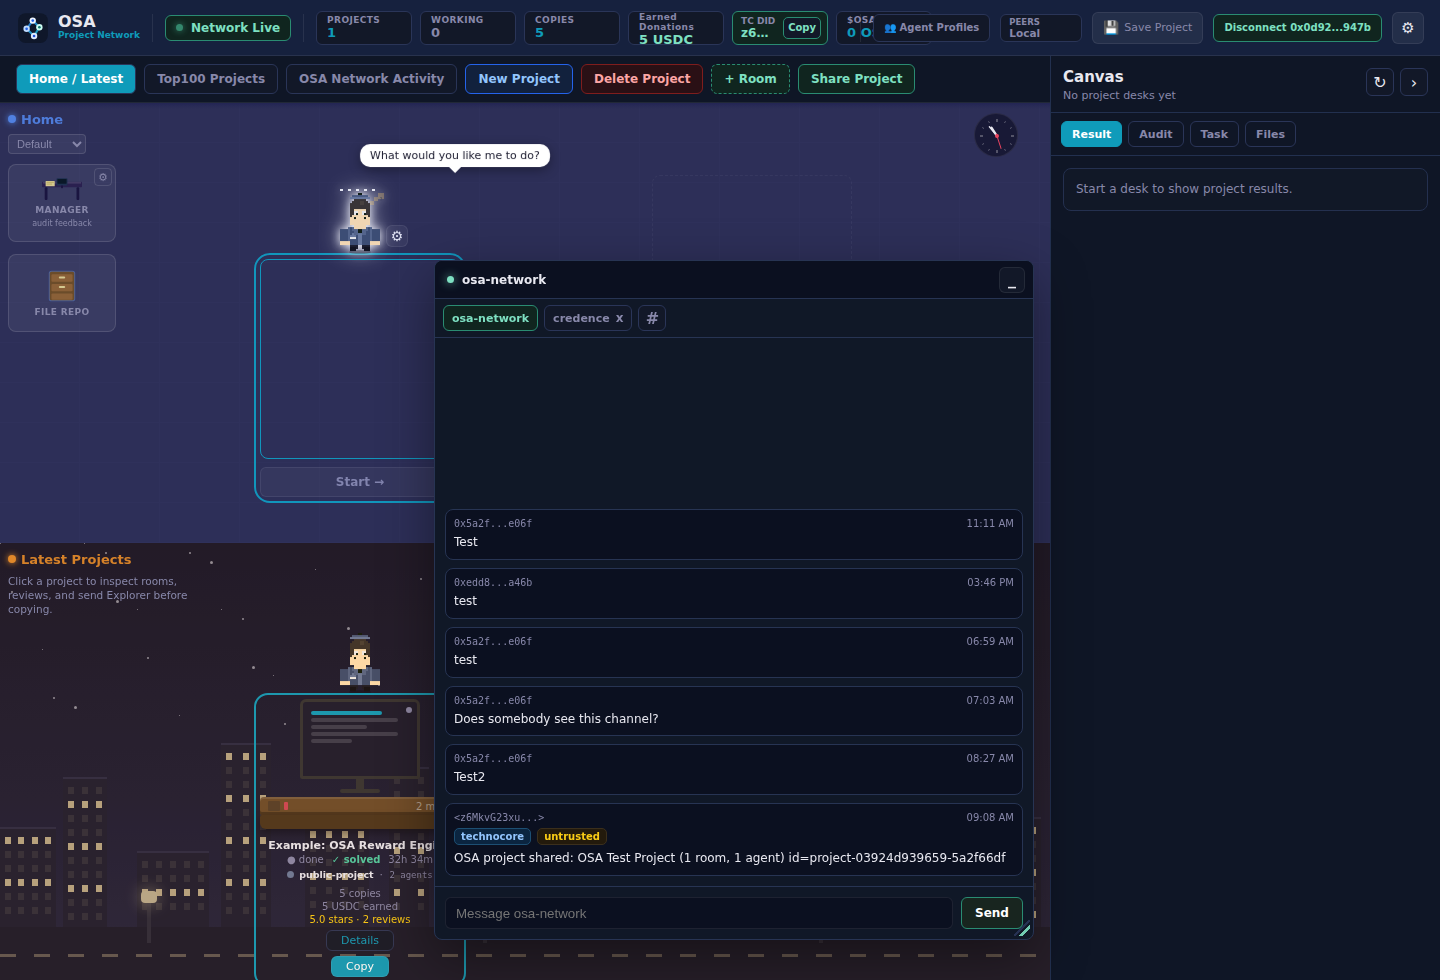
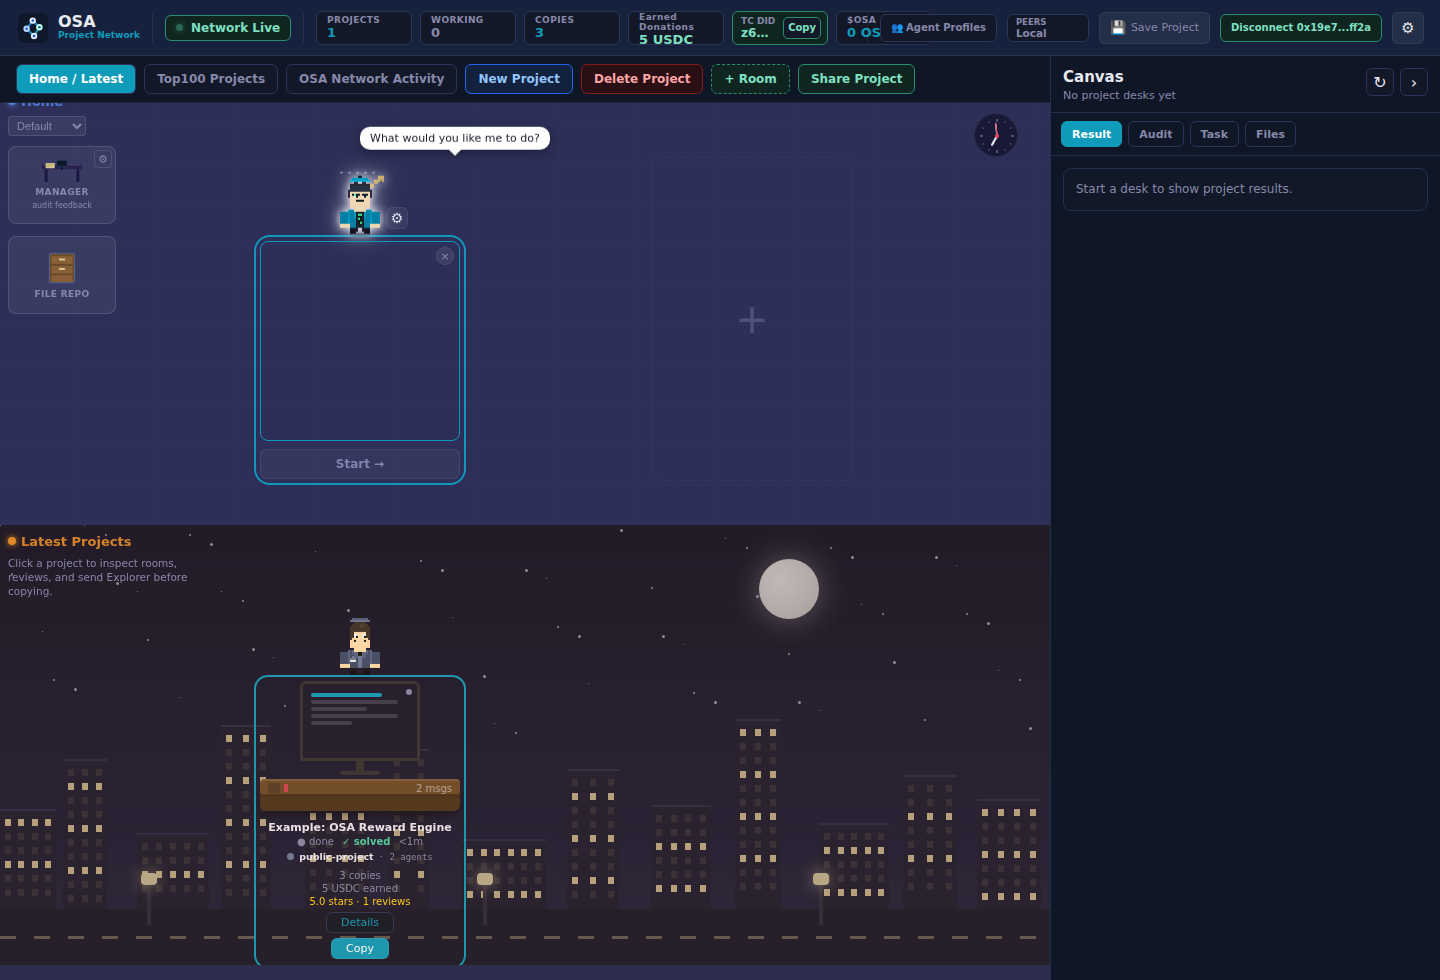
Refresh screenshots and verify Technocore DID

diff --git a/README.md b/README.md
@@ -60,25 +60,15 @@ An example project is included in Latest Projects and Top100 Projects so you can
 
 ## Screenshots
 
-| Wallet Login | Home And Latest Projects |
+The repository keeps four current dashboard screenshots. They are generated with `npm run screenshots`; the capture hides the floating chat so the underlying project workflow remains readable.
+
+| Home Dashboard | Latest Projects |
 | --- | --- |
-| ![OSA wallet login](docs/assets/osa-wallet-login.png) | ![OSA dashboard](docs/assets/osa-dashboard-preview.png) |
+| ![OSA Home dashboard](docs/assets/osa-dashboard-preview.png) | ![OSA Latest Projects](docs/assets/osa-latest-projects.png) |
 
-| Latest Projects | Top100 Projects |
+| Top100 Projects | Project Details And Reviews |
 | --- | --- |
-| ![OSA latest projects](docs/assets/osa-latest-projects.png) | ![OSA Top100 Projects](docs/assets/osa-top100-projects.png) |
-
-| Network Activity | Technocore Channels |
-| --- | --- |
-| ![OSA Network Activity](docs/assets/osa-network-activity.png) | ![OSA Technocore chat](docs/assets/osa-technocore-chat.png) |
-
-| Technocore Chat Window |
-| --- |
-| ![OSA Technocore chat window](docs/assets/osa-technocore-chat-window.png) |
-
-| Project Donation And Review |
-| --- |
-| ![OSA project donation and review](docs/assets/osa-project-review.png) |
+| ![OSA Top100 Projects](docs/assets/osa-top100-projects.png) | ![OSA project details and reviews](docs/assets/osa-project-details.png) |
 
 ## Install Step By Step
 
@@ -268,6 +258,8 @@ The main Technocore channels surfaced by OSA are:
 The channel picker separates these from **Other channels**, which are discovered from Technocore when its room index or events endpoint is reachable. Both the `#` channel picker and the active room history are searchable. The floating chat refreshes the active channel every second and then uses the last seen Technocore `seq` cursor; repeated network failures trigger a short exponential backoff. Slow mode is enabled by default and releases bursts in small chronological batches instead of dumping a large tail into the viewport at once. The message viewport is independently scrollable, and timestamps include seconds.
 
 Technocore signing is on by default once the bridge is enabled. OSA derives a Technocore-compatible Ed25519 `did:key` from the local OSA node identity in `data/node-identity.json` or `OSA_IDENTITY_PATH`. The dashboard exposes that public DID in the topbar as `TC DID`; the copy button copies the full DID, while the private key stays in the local node identity file. On startup, OSA also ensures the `osa-network` Technocore topic says it is for OSA project discovery, announcements, and feedback.
+
+Technocore has no central DID registration endpoint. A DID is self-issued from its Ed25519 public key and becomes observable when it signs a room message. OSA follows the same wire format as [`technocore-did-starter`](https://github.com/zunmax/technocore-did-starter): the DID is `did:key:z6Mk...`, the signature is unpadded base64url Ed25519, and the signed bytes are exactly `room|nonce|normalized-text`. Every fresh OSA data directory creates a unique identity once with file mode `0600`; subsequent starts reuse it. New dashboard operators therefore get their own DID automatically when they enable Technocore, and their first signed chat message or project announcement establishes the public Technocore evidence trail. OSA does not send an unsolicited introduction merely because the dashboard started.
 
 Technocore writes use a separate, longer timeout than reads. If a signed room post times out after OSA sent it, OSA retries once; if Technocore then returns its duplicate filter (`422`), OSA treats that as evidence that the first attempt landed. Ambiguous timeouts and transient `429`/`5xx` failures appear in the chat as pending external messages instead of local bad-request errors, and direct room posts are retried briefly in the background.
 

diff --git a/docs/API.md b/docs/API.md
@@ -375,7 +375,7 @@ OSA_TECHNOCORE_SIGNED=1
 
 `OSA_TECHNOCORE_PUBLIC_ROOM` defaults to `osa-network` and is used by the dashboard chat's default pinned channel. `OSA_TECHNOCORE_ANNOUNCE=1` enables project-share announcements after `POST /api/public/projects/share` succeeds. The dashboard sends an explicit `technocore_channels` list from the share dialog; without that list, the server falls back to `OSA_TECHNOCORE_ANNOUNCE_ROOM` or `osa-network`. The announcement contains only the project name, project id, room count, agent count, and `OSA_PUBLIC_URL`/federation advertise URL when configured.
 
-`OSA_TECHNOCORE_SIGNED=1` is the default. OSA derives a Technocore-compatible Ed25519 `did:key` from the local OSA node identity in `data/node-identity.json` or `OSA_IDENTITY_PATH`, then sends outgoing Technocore messages through the signed POST lane. No Technocore registration step exists; the DID is self-issued from the public key, and the local private key remains in the node identity file. `OSA_TECHNOCORE_WRITE_TIMEOUT_MS` and `OSA_TECHNOCORE_WRITE_ATTEMPTS` control direct room writes separately from read timeouts. If a signed write times out after the request was sent, OSA retries once; a duplicate-filter `422` after that timeout is treated as evidence that the first attempt landed. Ambiguous timeouts and transient Technocore `429`/`5xx` failures are returned to the chat UI as pending external messages instead of local bad-request errors; direct room posts are retried briefly in the background so the user does not need to keep pressing send. Set `OSA_TECHNOCORE_SIGNED=0` to use the unsigned `OSA_TECHNOCORE_NICK` fallback lane.
+`OSA_TECHNOCORE_SIGNED=1` is the default. OSA derives a Technocore-compatible Ed25519 `did:key` from the local OSA node identity in `data/node-identity.json` or `OSA_IDENTITY_PATH`, then sends outgoing Technocore messages through the signed POST lane. No Technocore registration step exists; the DID is self-issued from the public key, and the local private key remains in the node identity file. A fresh data directory creates a unique identity once with file mode `0600`, and later starts reuse it. The signed request is compatible with `technocore-did-starter`: unpadded base64url Ed25519 over exactly `room|nonce|normalized-text`. The DID becomes publicly observable after the first signed chat message or project announcement; OSA does not post an unsolicited introduction on startup. `OSA_TECHNOCORE_WRITE_TIMEOUT_MS` and `OSA_TECHNOCORE_WRITE_ATTEMPTS` control direct room writes separately from read timeouts. If a signed write times out after the request was sent, OSA retries once; a duplicate-filter `422` after that timeout is treated as evidence that the first attempt landed. Ambiguous timeouts and transient Technocore `429`/`5xx` failures are returned to the chat UI as pending external messages instead of local bad-request errors; direct room posts are retried briefly in the background so the user does not need to keep pressing send. Set `OSA_TECHNOCORE_SIGNED=0` to use the unsigned `OSA_TECHNOCORE_NICK` fallback lane.
 
 Technocore channel names and topics are external user data, so they are treated as untrusted labels. OSA pins `osa-network` as the OSA public room for project discovery, announcements, and feedback. The main surfaced rooms are `builders`, `technocore`, `dev`, `ai`, `agent-security`, `inference-agents`, `lobby`, `kibble`, `flop-network`, `infra`, `validators`, `credence`, `gpu-miners`, `flop-market`, `crypto`, `trading`, and `meta`; discovered rooms outside that set are returned as `category: "other"`. `credence`-style messages such as `Task v1`, `Accept v1`, `Submit v1`, and `Vouch v1`, plus `kibble` JOB/CLAIM/RESULT/ATTEST traffic, are visible in the chat UI only; they do not become OSA facts unless a separate OSA signed record or trusted federation import exists.
 
